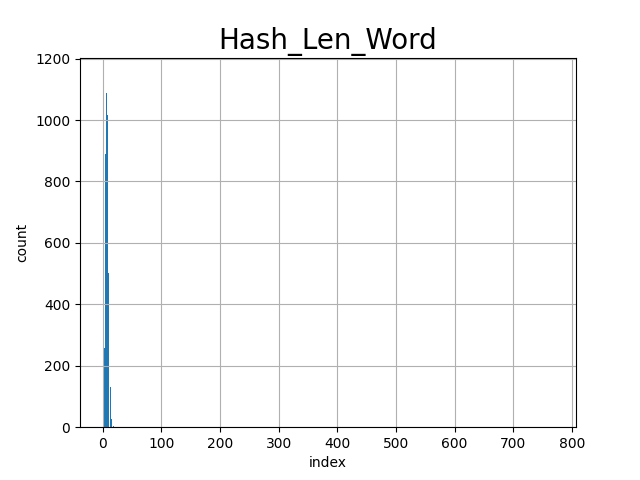
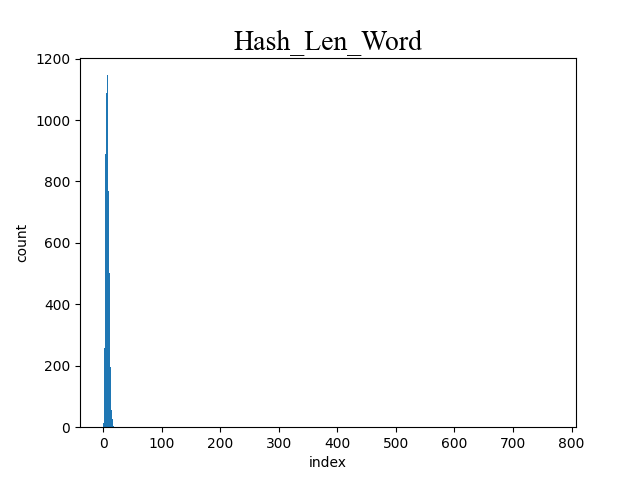
with inline

diff --git a/Distribution.py b/Distribution.py
@@ -8,9 +8,6 @@ fig, ax = plt.subplots()
 with open("dist.txt", 'r') as file:
     dist = list(float(i) for i in file.readlines())
 
-with open("dist.txt", 'r') as file:
-    rep = list(float(i) for i in file.readlines())
-
 
 index = []
 for i in range(0, 769):
@@ -22,11 +19,11 @@ for i in range(0, 769):
 #plt.hist(dist, bins=20, alpha=1)
 #plt.hist(index , bins=20, alpha=1)
 #plt.hist(dist, color = 'blue', edgecolor = 'black', bins = int(180/5))
-plt.bar(index, dist)
-plt.title('Distribution', fontsize=20, fontname='Times New Roman')
+plt.bar(index, dist, width=2)
+plt.title(sys.argv[2], fontsize=20, fontname='Times New Roman')
 plt.xlabel('index', color='black')
 plt.ylabel('count',color='black')
-plt.grid(True)
+#plt.grid(True)
 #plt.legend(['Mid Elem','Mid of 3', 'Random', 'Mid of 3 random'], loc=2)
 
 print("Despersion =",math.sqrt(np.var(dist)))

diff --git a/hash_table_func.h b/hash_table_func.h
@@ -32,8 +32,8 @@ struct Node* Create_Node            (char* val);
 int*   Find_Distribution            (struct Hash_Table* hash_table);
 int    Hash_Table_Len               (struct Hash_Table* hash_table);
 void   Print_Arr                    (FILE* file, int* data, size_t size);
-int    my_strcmp                    (__m256i* str_1, __m256i* str_2);
-size_t my_strlen                    (char* str);
+inline int    my_strcmp                    (__m256i* str_1, __m256i* str_2);
+inline size_t my_strlen                    (char* str);
 size_t strlen_simd                  (char* str);
 
 

diff --git a/Hash_Table_func.cpp b/Hash_Table_func.cpp
@@ -174,7 +174,7 @@ int Hash_Table_Len(struct Hash_Table* hash_table)
     return len;
 }
 
-int my_strcmp(__m256i* str_1, __m256i* str_2)
+inline int my_strcmp(__m256i* str_1, __m256i* str_2)
 {
     __m256i str_reg_1 = _mm256_lddqu_si256(str_1);
     __m256i str_reg_2 = _mm256_lddqu_si256(str_2);
@@ -185,7 +185,7 @@ int my_strcmp(__m256i* str_1, __m256i* str_2)
     return mask;
 }
 
-size_t my_strlen(char* str)
+inline size_t my_strlen(char* str)
 {
     size_t len = 0;
     /*

diff --git a/Hash_Table.cpp b/Hash_Table.cpp
@@ -44,12 +44,13 @@ int main(const int argc, const char* argv[])
     int* dist = Find_Distribution(hash_table);
     FILE* file = fopen("dist.txt", "w");
     Print_Arr(file, dist, hash_table -> size);
+    //Hash_Table_Dtor(hash_table);
     //return 0;
 
     double time = 0.0;
     time_t start = clock();
 
-    for(int i = 0 ; i < 10000000; i++)
+    for(int i = 0 ; i < 100000000; i++)
     {
         strncpy(str, "ciecnie", 32);
         Is_in_Hash_Table(hash_table, str);

diff --git a/README.md b/README.md
@@ -1,6 +1,6 @@
 # Оптимизация хеш таблиц при помощи низкоуровневого кода.
 ## Задача
-* Написать хеш таблицу используя метод цепочек
+* Написать хеш-таблицу используя метод цепочек
 * Написать 7 хеш-функций для нашей таблицы
 * Написать 3 различных оптимизации
     * с помощью прямой ассемблерной вставки
@@ -10,13 +10,13 @@
 ### 1) Реализовали хеш-таблицу на массиве указателей на списки.
 ### 2) Сравнение хеш функций:
 
-Рассмотрим все функции хеширования и построим для каждой график, на котором показано распределение элементов по хеш-таблице.
+Рассмотрим все функции хеширования и для каждой построим график, показывающий распределение элементов по хеш-таблице.
 
 |hash всегда 0|hash = ASCII коду первого символа строки|
 |:--:|:--:|
-|<img src="Graphics/Hash_Zero.png"         alt="drawing" width="300"/> | <img src="Graphics/Hash_First_Letter.png" alt="drawing" width="300"/>|
+|<img src="Graphics/Hash_Zero.png"   alt="drawing" width="300"/> | <img src="Graphics/Hash_First_Letter.png" alt="drawing" width="300"/>|
 | Hash = длинна слова | Hash = сумма ASCII кодов каждого символа в строке |
-|<img src="Graphics/Hash_Len_Word.png"     alt="drawing" width="300"/> | <img src="Graphics/Hash_Sum_Letters.png"  alt="drawing" width="300"/>|
+|<img src="Graphics/Hash_Len_Word.png" alt="drawing" width="300"/> | <img src="Graphics/Hash_Sum_Letters.png"  alt="drawing" width="300"/>|
 |Hash = сдвиг по кругу вправо от предыдущего хеша | Hash = сдвиг по кругу влево от предыдущего хеша|
 |<img src="Graphics/Hash_Rol.png"     alt="drawing" width="300"/> | <img src="Graphics/Hash_Ror.png"    alt="drawing" width="300"/>|
 |Crc32_hash|
@@ -62,6 +62,10 @@
     ```
     </details>
 
+Выберем функцию для следующей оптимизации, исходя из результатов профилирования предыдущей версии программы
+
+<img src="Graphics/Callgrind_with_strcmp.png"  alt="drawing" width="700"/>
+
 * ### crc32 -> my_crc32
     С помощью знаний ассемблера получим:
     <details>
@@ -80,6 +84,10 @@
         ret
     ```
     </details>
+
+Выберем функцию для следующей оптимизации, исходя из результатов профилирования предыдущей версии программы
+
+<img src="Graphics/Callgrind_with_strcmp_crc32.png"  alt="drawing" width="700"/>
 
 * ### strlen -> strlen_simd
     Переписав функцию с использованием прямой ассемблерной вставки, заметим ,что my_strlen даже медленнее стандартной strlen, так как стандартная функция strlen написана через SIMD инструкции. Попробуем обогнать!!!
@@ -145,17 +153,17 @@
 
 |Оптимизация| время (сек) |Коэффициент ускорения относительно худшего времени| Коэффициент относительно предыдущей версии|
 |:--:|:--:|:--:|:--:|
-|-O0|10.89|1|1|
-|-O3|6.54|1.66|1.66|
-|-O3 и my_strcmp|5.18|2.1|1.26|
-|-O3 и my_strcmp и my_crc32|4.32|2.52|1.2|
-|-O3 и my_strcmp и my_crc32 и my_strlen|4.25|2.56|1.016|
+|-O0|11.5|1|1|
+|-O3|6.87|1.67|1.67|
+|-O3 и my_strcmp|4.51|2.55|1.52|
+|-O3 и my_strcmp и my_crc32|3.77|3.05|1.2|
+|-O3 и my_strcmp и my_crc32 и my_strlen|3.63|3.17|1.038|
 
 Видно, что после последней оптимизации время работы уменьшилось на ~0.016, значит дальнейшая оптимизация будет нецелесообразна.
 
-Запустим valgrid еще раз чтобы наглядно убедиться в том что дальнейшие оптимизации будут напрасны.
+Запустим valgrind еще раз чтобы наглядно убедиться в том что дальнейшие оптимизации будут напрасны.
 
-<img src="Graphics/Callgrind_without_opt.png"  alt="drawing" width="700"/>
+<img src="Graphics/Callgrind_with_opt.png"  alt="drawing" width="700"/>
 
 ## Вывод
 * оптимальной функцией для вычисления хеша оказалась функция crc32
